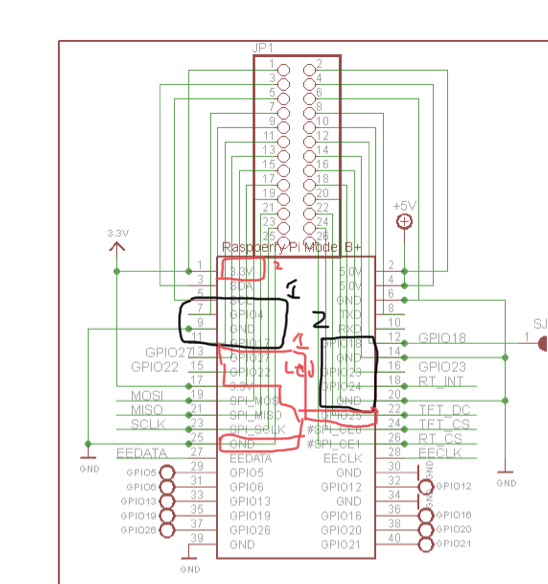
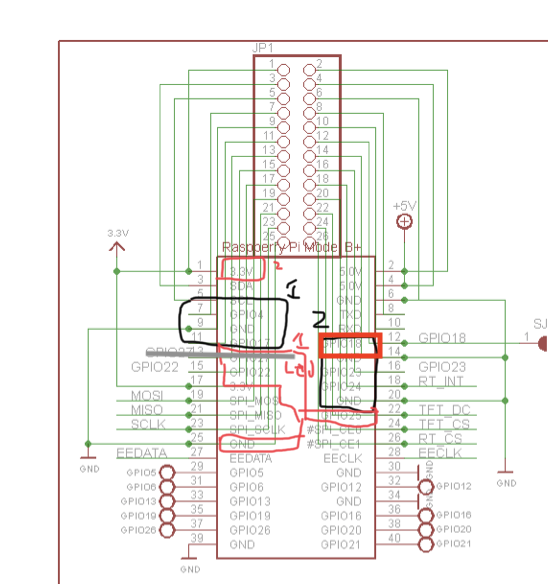
updating readme

Changed region(s): [[0.2482, 0.5548, 0.7135, 0.6164]]

diff --git a/README.md b/README.md
@@ -1,18 +1,44 @@
 # Pipboy-3000
- Python code recycled and forked to create a UI for a raspi TFT 3.5" using the ytech pipboy.
+ Python code recycled and forked to create a UI for a raspi TFT 3.5" using the ytech pipboy 3d model.
  
 
-
-
-
 Sources:
-- Code base: https://github.com/sabas1080/pypboy
+- Current own version: https://github.com/ColtonMcCasland/pypboy3000
+
+- Credit to sabas1080's code I orignially based my work on: https://github.com/sabas1080/pypboy
+
+
 - 3d Model: https://ytec3d.com/pip-boy/
-- Electrical diagram: https://learn.adafruit.com/raspberry-pi-pipboy-3000/circuit-diagram
+
+- Wiring diagram: ![](Finished_product_Images/raspberry_pi_pipboy-circuit-diagram.jpeg)
+
+- GPIO pinout diagram: https://learn.adafruit.com/raspberry-pi-pipboy-3000/circuit-diagram
   - (*does not include wiring for front three LEDs*)
 ![](./Finished_product_Images/PiTFT_Touchscreen_pinout.png) 
-  - Red are LED pins
-    - ![](./Finished_product_Images/IMG_1663.jpg)
+  - Red highlights are LED pins, grey is marked out/ do not use, black are inputs for the rotary switches, and do not use gpio 27 I have marked that out as it messes up the screen input signal, use gpio 18 instead for LEDs, and both rotary switches will just have the two input and one ground pins used, the other ones can act as push buttons but that is not used in any of the code anymore,
+    - ![](./Finished_product_Images/LED_pcb_part.jpg)
     - **Each** LED needs a 330ohm resistor, I used some cheap PCB and had my friend wired the LEDs and resistors onto to save space.
+  
   - Black are Rotary encoder pins
     - The rotary set with three gpio with be the non-scroll wheel button.
+
+
+- Software installation steps: 
+    1. Use image recommended on this link:
+        -  https://learn.adafruit.com/adafruit-pitft-3-dot-5-touch-screen-for-raspberry-pi/easy-install-2
+
+    2. Download pygame for Debian:
+        - sudo apt-get install python3-pygame
+
+    3. Clone the pip boy git repo in /home/pi/
+
+    4. Follow option 2 in this link to create a script to run the pygame: https://www.makeuseof.com/how-to-run-a-raspberry-pi-program-script-at-startup/
+
+    5. Follow this link and reference the ‘launcher.sh’ file you created. 
+
+    6. Verify it works by running ‘sudo launcher.sh’.
+        - This should work and launch the game, if the game errors on missing dependencies, add them. 
+
+
+    7. Edit  and verify the boot file has dtparam-audio turned on with this command: sudo nano /boot/config.txt
+        - Verify this works by running the game with the audio component connected and wired.
